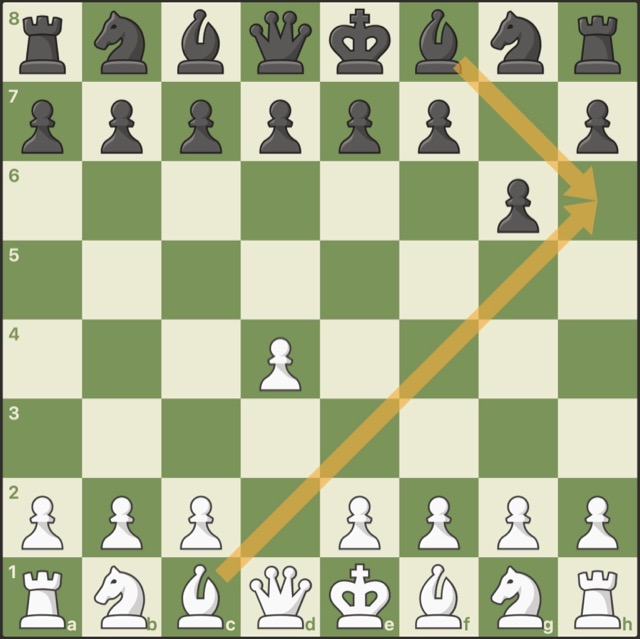
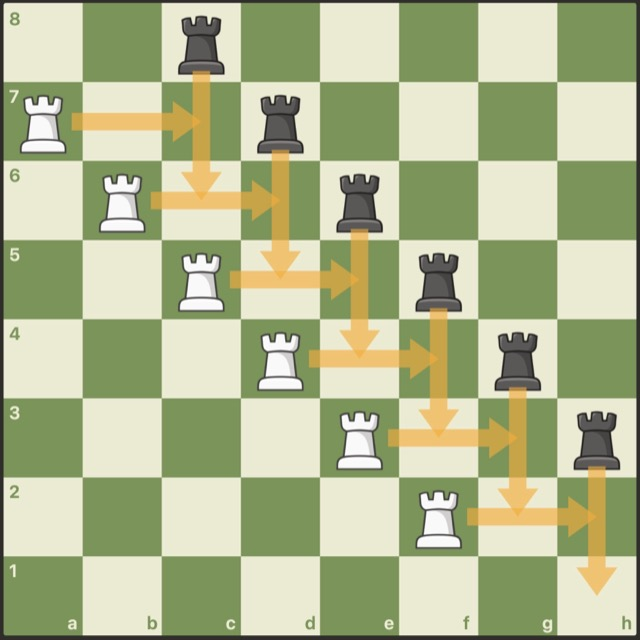
Blog thumbnails: no spoiler for 4-fold, NanoBots' first image, Fair Chess Fig. 10

diff --git a/docs/blog/index.html b/docs/blog/index.html
@@ -58,7 +58,7 @@
         <h3><a href="/blog/2026/03/24/nanobots/">NanoBots</a></h3>
         <p>I built a <a href="https://quiltlang.github.io/demo/nanobots/" target="_blank" rel="noopener">compiler</a> to let users program millions of nanobots that run in the GPU. Let me show you its features :)</p>
         </div>
-        <a class="thumb" href="/blog/2026/03/24/nanobots/" tabindex="-1" aria-hidden="true"><img src="/files/thumbs/nanobots.jpg" alt="" loading="lazy" style="object-position: right center"></a>
+        <a class="thumb" href="/blog/2026/03/24/nanobots/" tabindex="-1" aria-hidden="true"><img src="/files/thumbs/nanobots.jpg" alt="" loading="lazy"></a>
       </li>
     </ul>
   </section>
